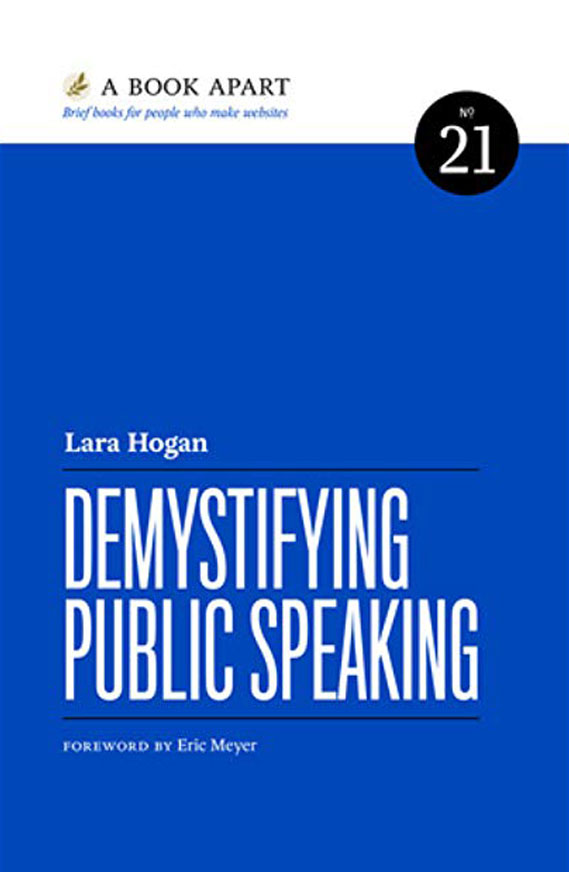
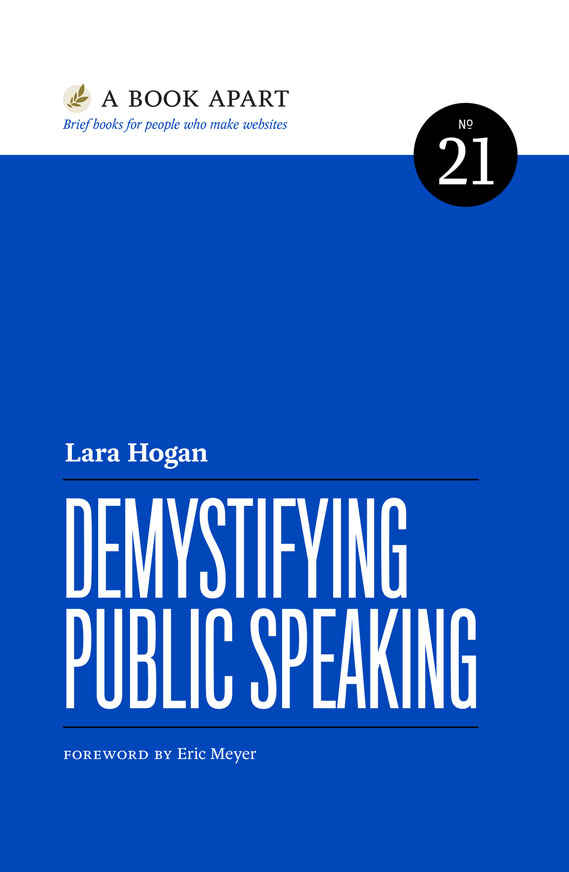
adds affiliate links and updates book cover images

Changed region(s): [[0.0896, 0.4954, 0.8664, 0.8979], [0.0, 0.0619, 1.0, 0.2477]]

diff --git a/books/how-to-win-friends-and-influence-people.md b/books/how-to-win-friends-and-influence-people.md
@@ -1,7 +1,8 @@
 ---
 title: How To Win Friends and Influence People
 author: Dale Carnegie
-cover: https://m.media-amazon.com/images/I/71Mk8PSL0OL._AC_UL872_QL65_.jpg
+cover: /static/img/book-covers/how-to-win-friends-and-influence-people.jpg
+url: https://amzn.to/2l5CtlA
 date: 2019-07-11
 tags:
   - Business

diff --git a/books/earth-not-a-globe.md b/books/earth-not-a-globe.md
@@ -1,7 +1,8 @@
 ---
 title: "Zetetic Astronomy: Earth Not a Globe"
 author: Samuel Birley Rowbotham
-cover: https://m.media-amazon.com/images/I/41JsIMZoulL._AC_UL872_QL65_.jpg
+cover: /static/img/book-covers/earth-not-a-globe.jpg
+url: https://amzn.to/2xLlmZu
 date: 2019-07-01
 tags:
   - Development

diff --git a/books/i-am-number-four.md b/books/i-am-number-four.md
@@ -1,7 +1,8 @@
 ---
 title: I am Number Four
 author: Pittacus Lore
-cover: https://m.media-amazon.com/images/I/41rseIwuyXL._AC_UL872_QL65_.jpg
+cover: /static/img/book-covers/i-am-number-four.jpg
+url: https://amzn.to/2l7q8xh
 date: 2019-07-01
 tags:
   - Science Fiction

diff --git a/books/ready-player-one.md b/books/ready-player-one.md
@@ -1,7 +1,8 @@
 ---
 title: Ready Player One
 author: Earnest Cline
-cover: https://m.media-amazon.com/images/I/91WubiE4doL._AC_UL872_QL65_.jpg
+cover: /static/img/book-covers/ready-player-one.jpg
+url: https://amzn.to/2Sm8imR
 date: 2019-07-02
 tags:
   - Science Fiction

diff --git a/books/steve-jobs.md b/books/steve-jobs.md
@@ -1,7 +1,8 @@
 ---
 title: Steve Jobs
 author: Walter Isaacson
-cover: https://m.media-amazon.com/images/I/81VStYnDGrL._AC_UL872_QL65_.jpg
+cover: /static/img/book-covers/steve-jobs.jpg
+url: https://amzn.to/2XH9LVD
 date: 2019-07-01
 tags:
   - Biography

diff --git a/books/armada.md b/books/armada.md
@@ -1,7 +1,8 @@
 ---
 title: Armada
 author: Earnest Cline
-cover: https://m.media-amazon.com/images/I/71CLY5CR2YL._AC_UL872_QL65_.jpg
+cover: /static/img/book-covers/armada.jpg
+url: https://amzn.to/2SeL4i5
 date: 2019-07-01
 tags:
   - Development

diff --git a/books/enders-shadow.md b/books/enders-shadow.md
@@ -1,7 +1,8 @@
 ---
-title: Ender's Game
+title: Ender's Shadow
 author: Orson Scott Card
 cover: /static/img/book-covers/enders-shadow.jpg
+url: "https://amzn.to/2XI5mC0"
 date: 2019-07-01
 tags:
   - Science Fiction

diff --git a/books/demystifying-public-speaking.md b/books/demystifying-public-speaking.md
@@ -2,6 +2,7 @@
 title: Demystifying Public Speaking
 author: Lara Hogan
 cover: /static/img/book-covers/demystifying-public-speaking.jpg
+url: https://amzn.to/30F7i03
 date: 2019-07-01
 tags:
   - Business

diff --git a/books/progressive-web-apps.md b/books/progressive-web-apps.md
@@ -2,6 +2,7 @@
 title: Progressive Web Apps
 author: Jason Grigsby
 cover: /static/img/book-covers/progressive-web-apps.jpg
+url: https://amzn.to/30qfyAG
 date: 2019-07-13
 tags:
   - Development

diff --git a/books/the-year-without-pants.md b/books/the-year-without-pants.md
@@ -2,6 +2,7 @@
 title: The Year Without Pants
 author: Scott Berkun
 cover: /static/img/book-covers/the-year-without-pants.jpg
+url: https://amzn.to/30u5wi3
 date: 2019-07-01
 tags:
   - Business

diff --git a/books/game-of-thrones.md b/books/game-of-thrones.md
@@ -2,6 +2,7 @@
 title: Game of Thrones
 author:  George R. R. Martin 
 cover: /static/img/book-covers/game-of-thrones.jpg
+url: "https://amzn.to/2Y0Mi5Y"
 date: 2019-07-12
 tags:
   - Fiction

diff --git a/books/delivering-happiness.md b/books/delivering-happiness.md
@@ -2,6 +2,7 @@
 title: Delivering Happiness
 author:  Tony Hsieh
 cover: /static/img/book-covers/delivering-happiness.jpg
+url: https://amzn.to/30upCbR
 date: 2019-07-01
 tags:
   - Business
